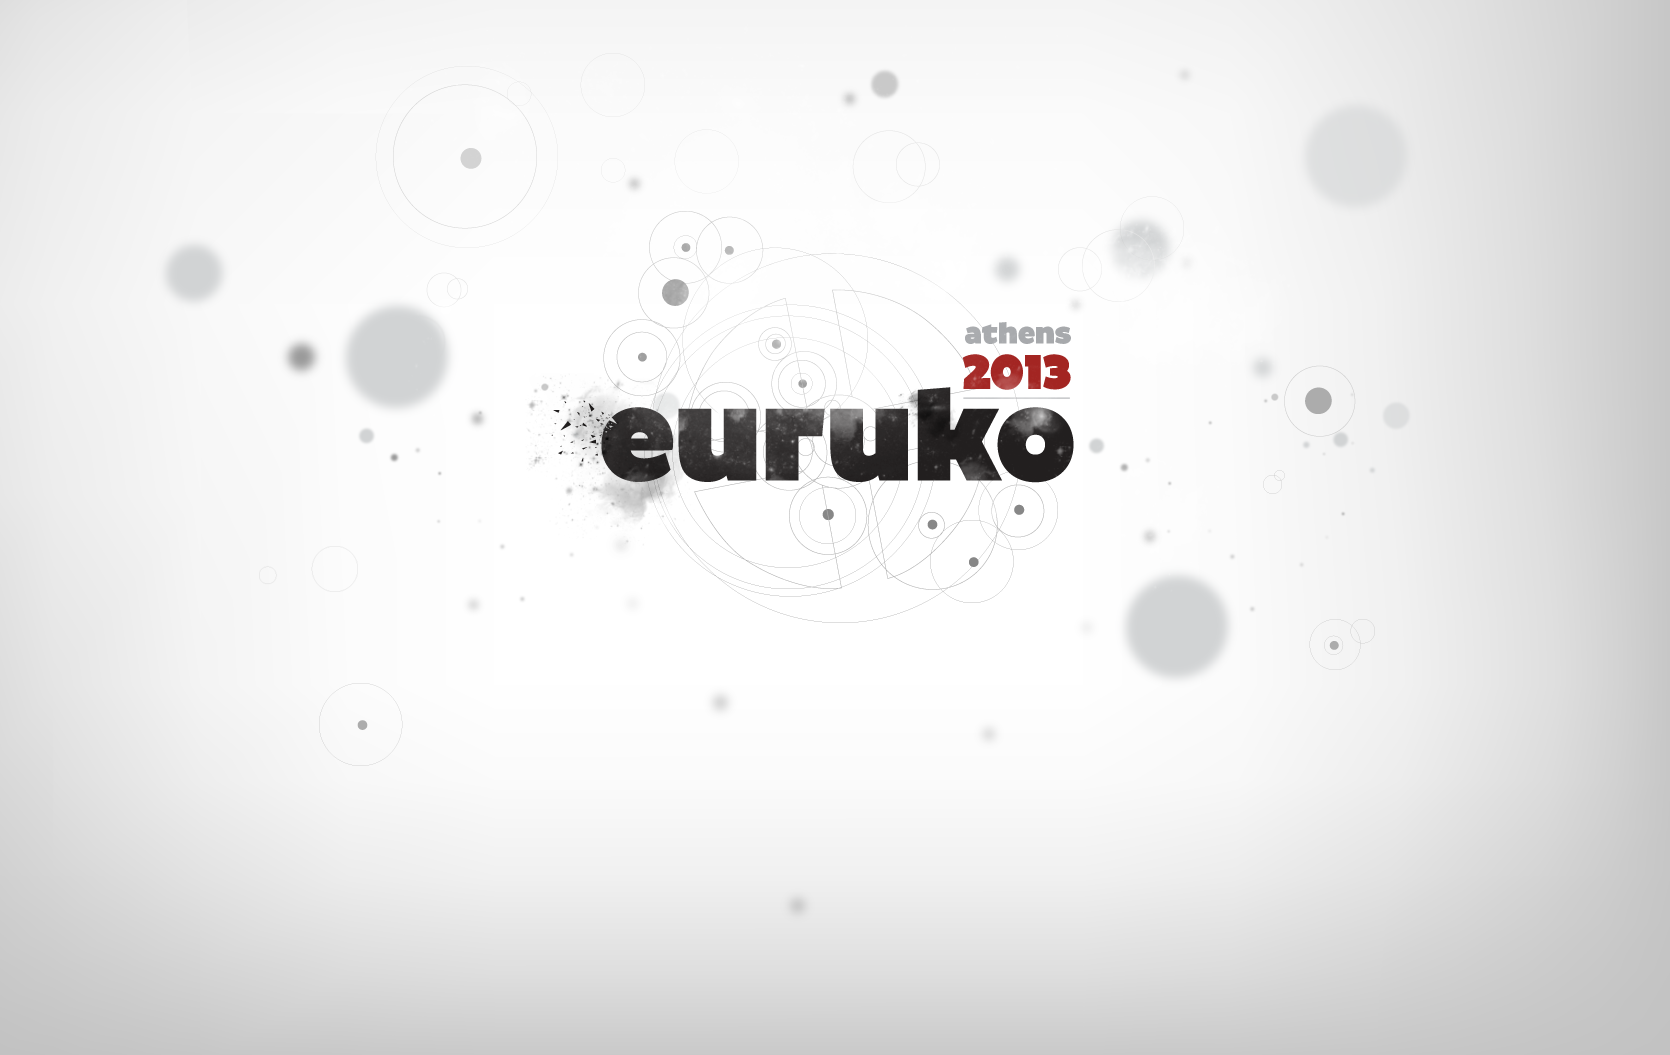
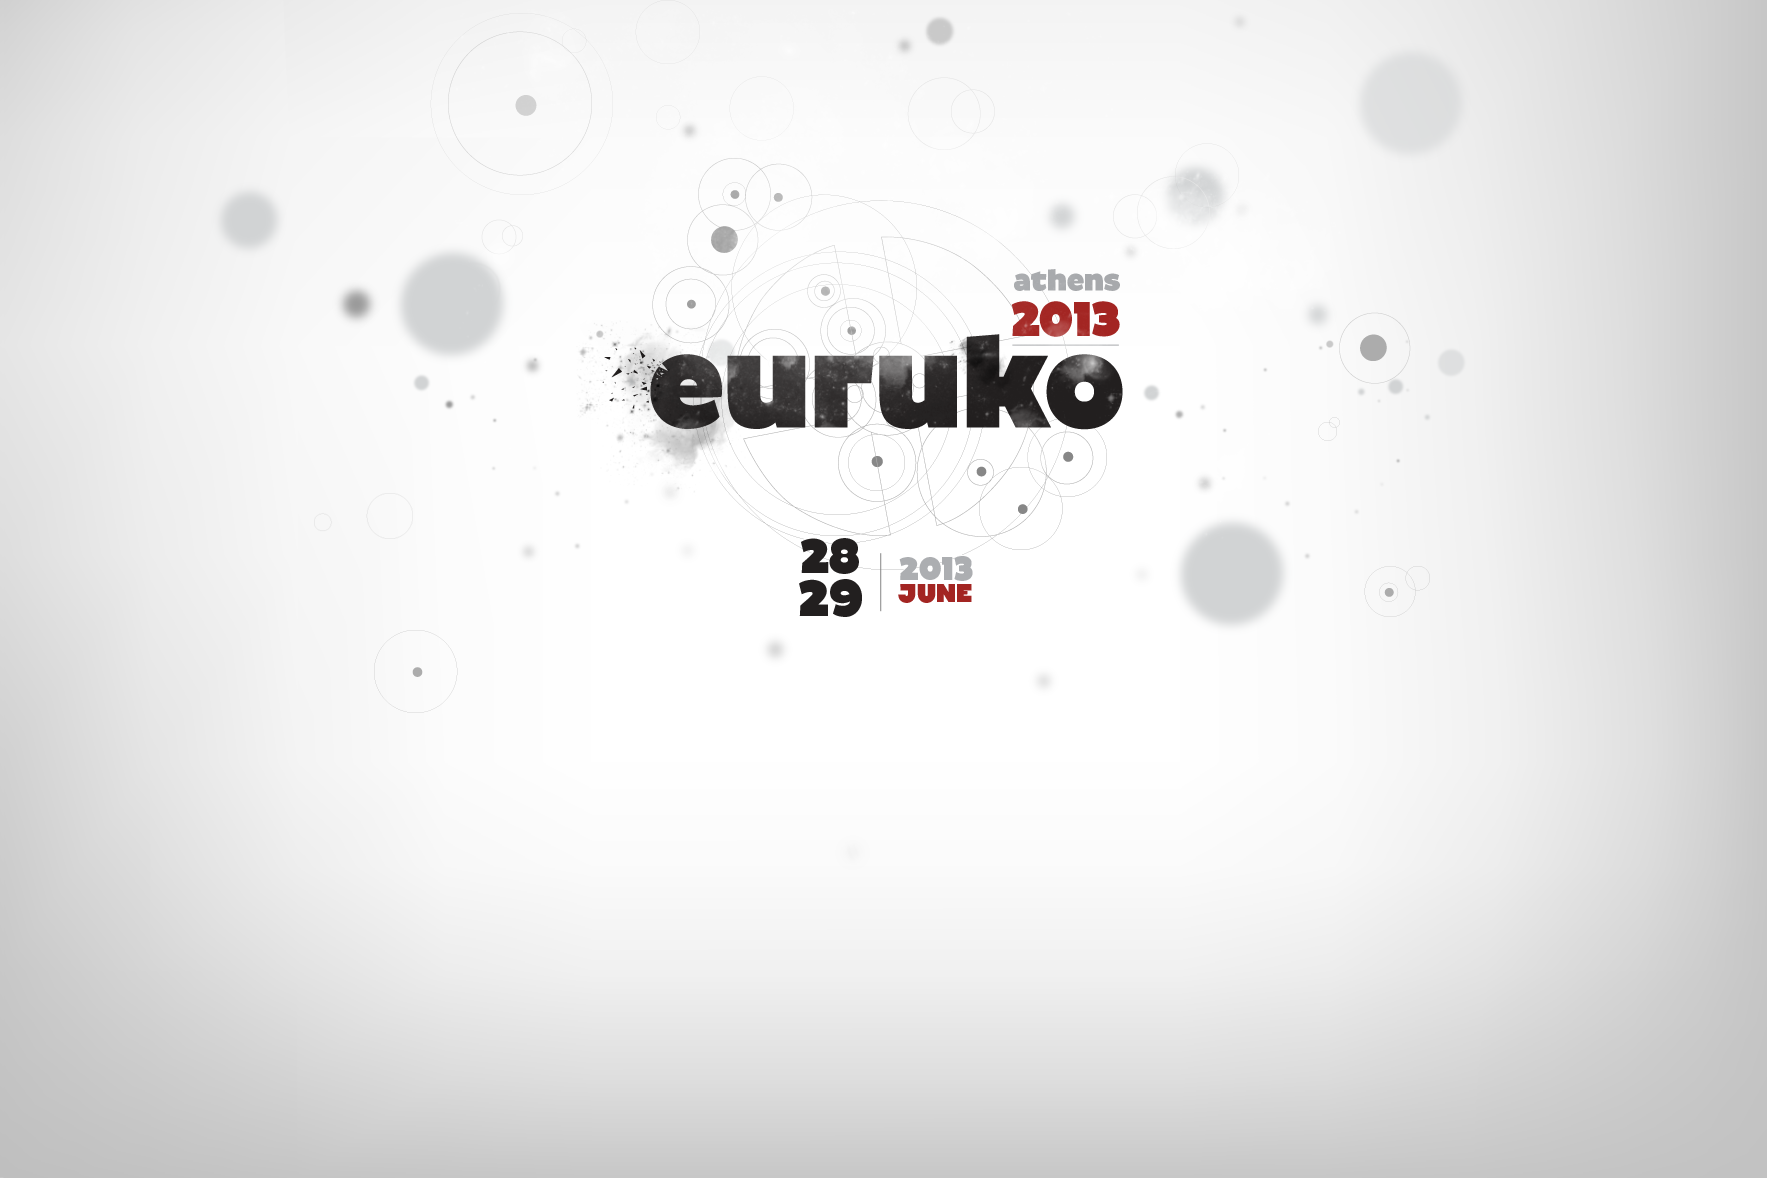
Updated background image with the one with dates.

diff --git a/stylesheets/style.css b/stylesheets/style.css
@@ -10,7 +10,7 @@ html, body {
 
 #main_container {
   width: 750px;
-  margin: 600px auto 0;
+  margin: 610px auto 0;
   padding-bottom: 20px;
 }
 
